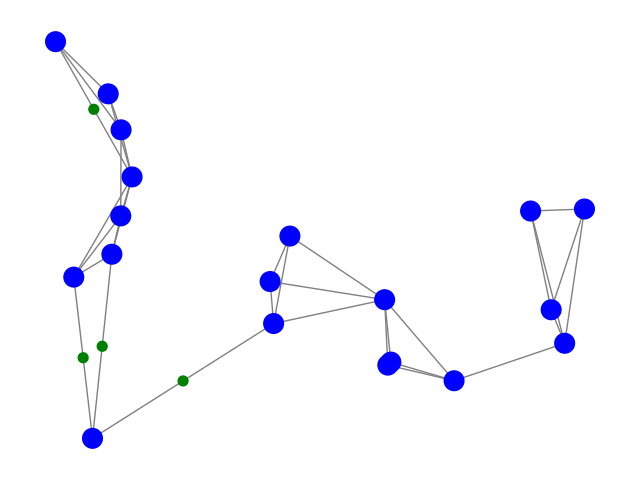
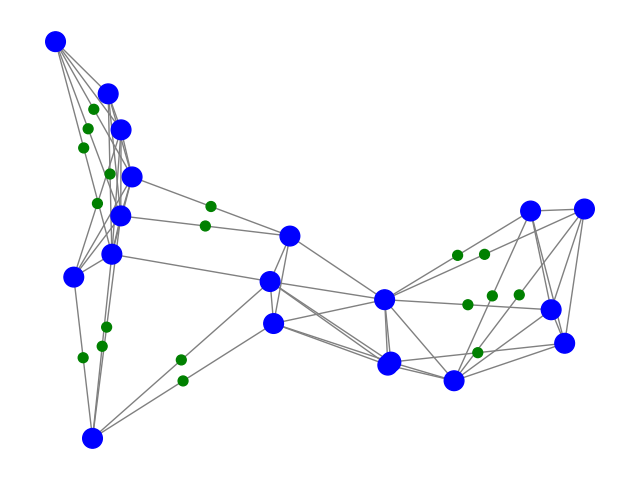
bugfix for path solver

diff --git a/src/solver/path.py b/src/solver/path.py
@@ -82,8 +82,11 @@ class PathAugSolver():
         beta = {}
         for pair in self.D.keys():
             for path in self.paths[pair]:
-                for node in path:
-                    beta[(pair, path, node)] = 2
+                for i, node in enumerate(path):
+                    if i == 0 or i == len(path)-1:
+                        beta[(pair, path, node)] = 1
+                    else:
+                        beta[(pair, path, node)] = 2
 
         return alpha, beta
 
@@ -121,7 +124,7 @@ class PathAugSolver():
         for edge in self.network.G.edges:
             self.phi[edge] = self.model.addVar(
                 vtype=gp.GRB.CONTINUOUS,
-                name=f'C_{edge}'
+                name=f'phi_{edge}'
                 )
             self.model.addConstr(self.phi[edge] >= 0)
             
@@ -153,7 +156,7 @@ class PathAugSolver():
         for pair in self.D.keys():
             # demand constraint
             self.model.addConstr(
-                gp.quicksum(self.x[(pair, path)] for path in self.paths[pair]) 
+                gp.quicksum([self.x[(pair, path)] for path in self.paths[pair]]) 
                 >= self.D[pair]
                 )
 
@@ -161,29 +164,31 @@ class PathAugSolver():
         """
         add resource constraints
         """
-        # memory constraint
-        for node in self.network.G.nodes(data=False):
-            m = 0
-            for pair in self.D.keys():
-                for path in self.paths[pair]:
-                    if node in path:
-                        m += self.beta[(pair, path, node)] * self.x[(pair, path)]
-            self.model.addConstr(self.m[node] >= m)
-
-
         # edge constraint
         for edge in self.network.G.edges(data=False):
             phi = 0
             for pair in self.D.keys():
                 for path in self.paths[pair]:
-                    edges = [(path[i], path[i+1]) for i in range(len(path)-1)]
+                    edges = tuple((path[i], path[i+1]) for i in range(len(path)-1))
                     if edge in edges:
                         phi += self.alpha[(pair, path, edge)] * self.x[(pair, path)]
+                    elif (edge[1], edge[0]) in edges:
+                        phi += self.alpha[(pair, path, (edge[1], edge[0]))] * self.x[(pair, path)]
             self.model.addConstr(self.phi[edge] >= phi)
 
+        # channel constraint
         for edge in self.network.G.edges(data=False):
             channel_capacity = self.network.G.edges[edge]['channel_capacity']
-            self.model.addConstr(self.phi[edge] <= self.c[edge] * channel_capacity)
+            self.model.addConstr(channel_capacity * self.c[edge] >= self.phi[edge])
+
+        # memory constraint
+        m = { node: 0 for node in self.network.G.nodes(data=False)}
+        for edge in self.network.G.edges(data=False):
+            u, v = edge
+            m[u] += self.phi[edge]
+            m[v] += self.phi[edge]
+        for node in self.network.G.nodes(data=False):
+            self.model.addConstr(self.m[node] >= m[node])
 
     def add_budget_def(self):
         """

diff --git a/src/test/exp.py b/src/test/exp.py
@@ -17,7 +17,8 @@ if __name__ == "__main__":
     task = Task(vset, 0.2, (10, 11))
     net = Network(task=task)
 
-    net.cluster_by_nearest(5)
+    # net.cluster_by_nearest(100)
+    net.make_clique()
     net.update_edges()
     net.plot(None, None, './result/fig_cluster.png')
 
@@ -26,12 +27,18 @@ if __name__ == "__main__":
     net.update_pairs()
     net.plot(None, None, './result/fig_presolve.png')
 
-    solver_path = PathAugSolver(net, 10, 'length')
+    solver_path = PathAugSolver(net, 100, 'length')
     solver_path.solve()
     print(solver_path.obj_val)
-    plot_optimized_network(solver_path.network.G, solver_path.m, solver_path.c, filename='./result/fig_solved_path.png')
+    plot_optimized_network(
+        solver_path.network.G, 
+        solver_path.m, solver_path.c, solver_path.phi,
+        filename='./result/fig_solved_path.png')
 
-    solver_flow = LinearSolver(net,)
-    solver_flow.solve()
-    print(solver_flow.obj_val)
-    plot_optimized_network(solver_flow.network.G, solver_flow.m, solver_flow.c, filename='./result/fig_solved_flow.png')
+    # solver_flow = LinearSolver(net,)
+    # solver_flow.solve()
+    # print(solver_flow.obj_val)
+    # plot_optimized_network(
+    #     solver_flow.network.G, 
+    #     solver_flow.m, solver_flow.c, solver_flow.phi,
+    #     filename='./result/fig_solved_flow.png')

diff --git a/src/utils/plot.py b/src/utils/plot.py
@@ -2,9 +2,10 @@
 import networkx as nx
 import gurobipy as gp
 import matplotlib.pyplot as plt
+import numpy as np
 
 
-def plot_optimized_network(graph: nx.Graph, m=None, c=None, filename: str='./result/fig.png'):
+def plot_optimized_network(graph: nx.Graph, m=None, c=None, phi=None, filename: str='./result/fig.png'):
     edges = graph.edges(data=False)
     nodes = graph.nodes(data=False)
 
@@ -14,7 +15,15 @@ def plot_optimized_network(graph: nx.Graph, m=None, c=None, filename: str='./res
     # if edge channel > 0, bold the edge
     if c is not None:
         edge_widths = [ 5 if c[edge].x > 0 else 1 for edge in edges]
-        edge_labels = {edge: int(c[edge].x) if c[edge].x > 0 else '' for edge in edges}
+        edge_labels = {}
+        for edge in edges:
+            ch = int(c[edge].x)
+            p = int(np.ceil(phi[edge].x))
+            if ch > 0:
+                edge_labels[edge] = f'{ch}-{p}'
+                # edge_labels[edge] = f'{p}'
+            else:
+                edge_labels[edge] = ''
     # if node memory > 0, mark the node
     if m is not None:
         node_colors = ['red' if m[node].x > 0 else color for node, color in zip(nodes, node_colors)]

diff --git a/src/network/network.py b/src/network/network.py
@@ -17,7 +17,7 @@ HWParam = {
     'pm_install': 1e2, # memory installation price
     'pc': 1, # channel price per km
     # 'pc_install': 1e4, # channel installation price
-    'pc_install': 1e2, # channel installation price
+    'pc_install': 0, # channel installation price
 }
 
 
